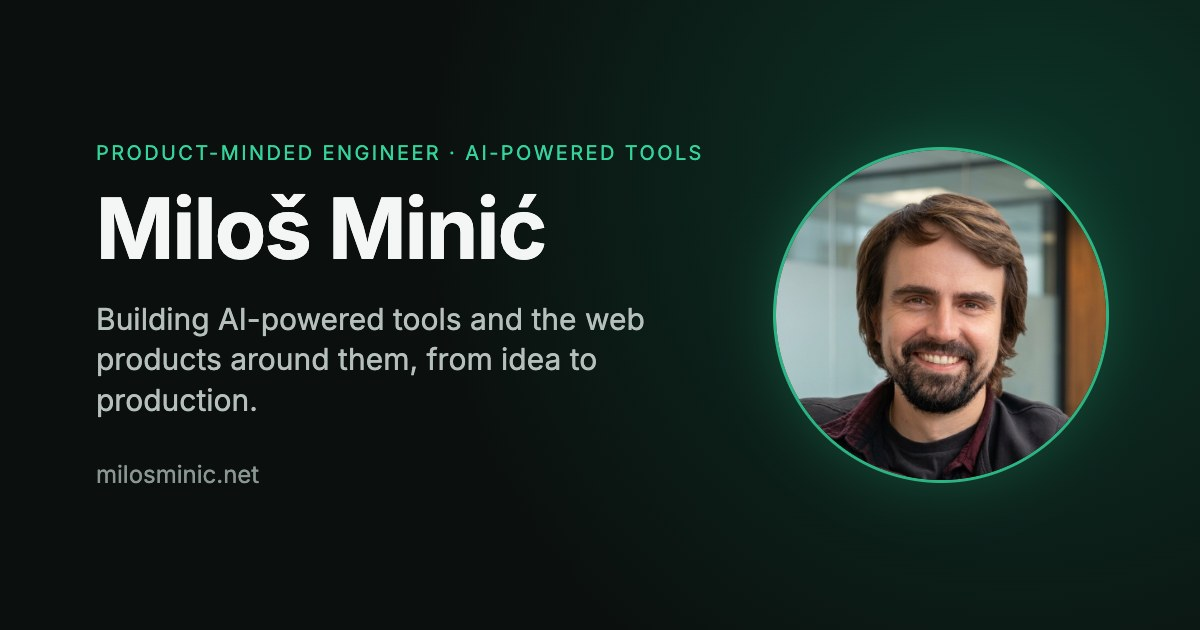
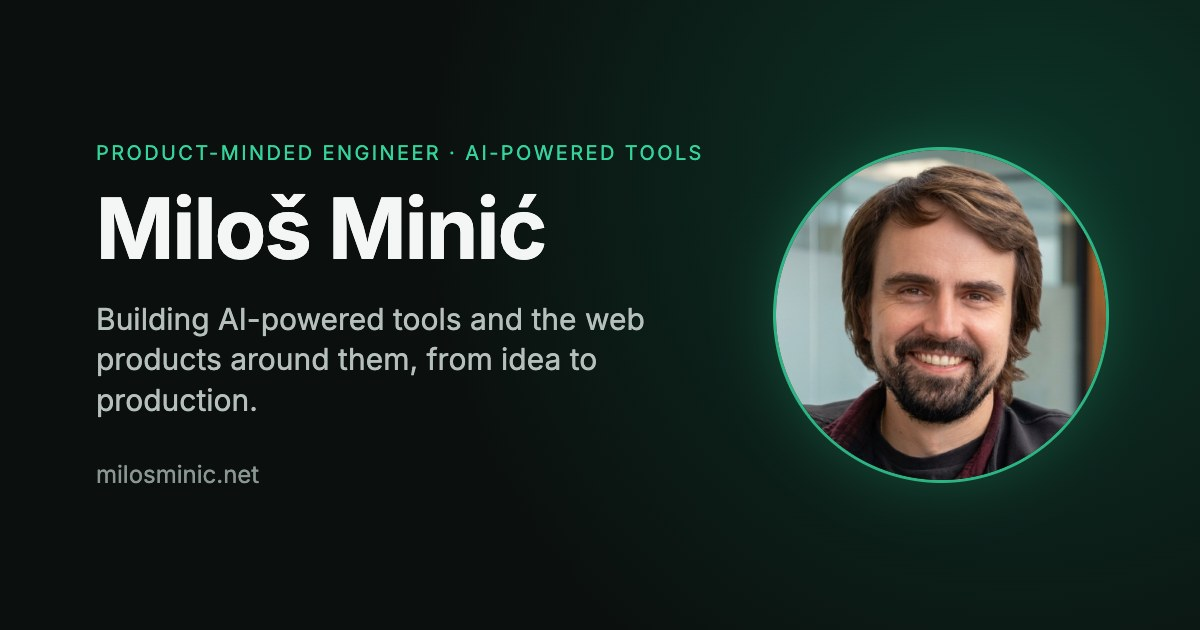
Tighten hero photo crop, enlarge it on desktop and add accent ring.

Changed region(s): [[0.6475, 0.2413, 0.925, 0.754]]

diff --git a/src/components/sections/Hero.tsx b/src/components/sections/Hero.tsx
@@ -23,7 +23,7 @@ export function Hero() {
             <div className="container relative z-10 mx-auto w-full min-w-0 max-w-6xl">
                 <div className="flex flex-col items-center gap-8 text-center sm:gap-10 lg:flex-row lg:items-center lg:gap-20 lg:text-left xl:gap-24">
                     <div className="relative order-1 shrink-0 lg:order-2">
-                        <div className="touch-accent-group relative h-36 w-36 sm:h-48 sm:w-48 md:h-56 md:w-56 lg:h-64 lg:w-64 xl:h-72 xl:w-72">
+                        <div className="touch-accent-group relative h-36 w-36 sm:h-48 sm:w-48 md:h-56 md:w-56 lg:h-72 lg:w-72 xl:h-80 xl:w-80">
                             <img
                                 src="/images/profile.jpg"
                                 alt="Miloš Minić"

diff --git a/src/app/globals.css b/src/app/globals.css
@@ -410,7 +410,16 @@
   }
 
   .profile-photo {
-    @apply h-full w-full rounded-full object-cover shadow-lg ring-1 ring-border transition-all duration-300;
+    @apply h-full w-full rounded-full object-cover transition-all duration-300;
+    box-shadow:
+      0 0 0 2px rgb(16 185 129 / 0.35),
+      0 10px 30px rgb(0 0 0 / 0.18);
+  }
+
+  .dark .profile-photo {
+    box-shadow:
+      0 0 0 2px rgb(52 211 153 / 0.4),
+      0 10px 30px rgb(0 0 0 / 0.45);
   }
 
   .profile-photo:hover,
